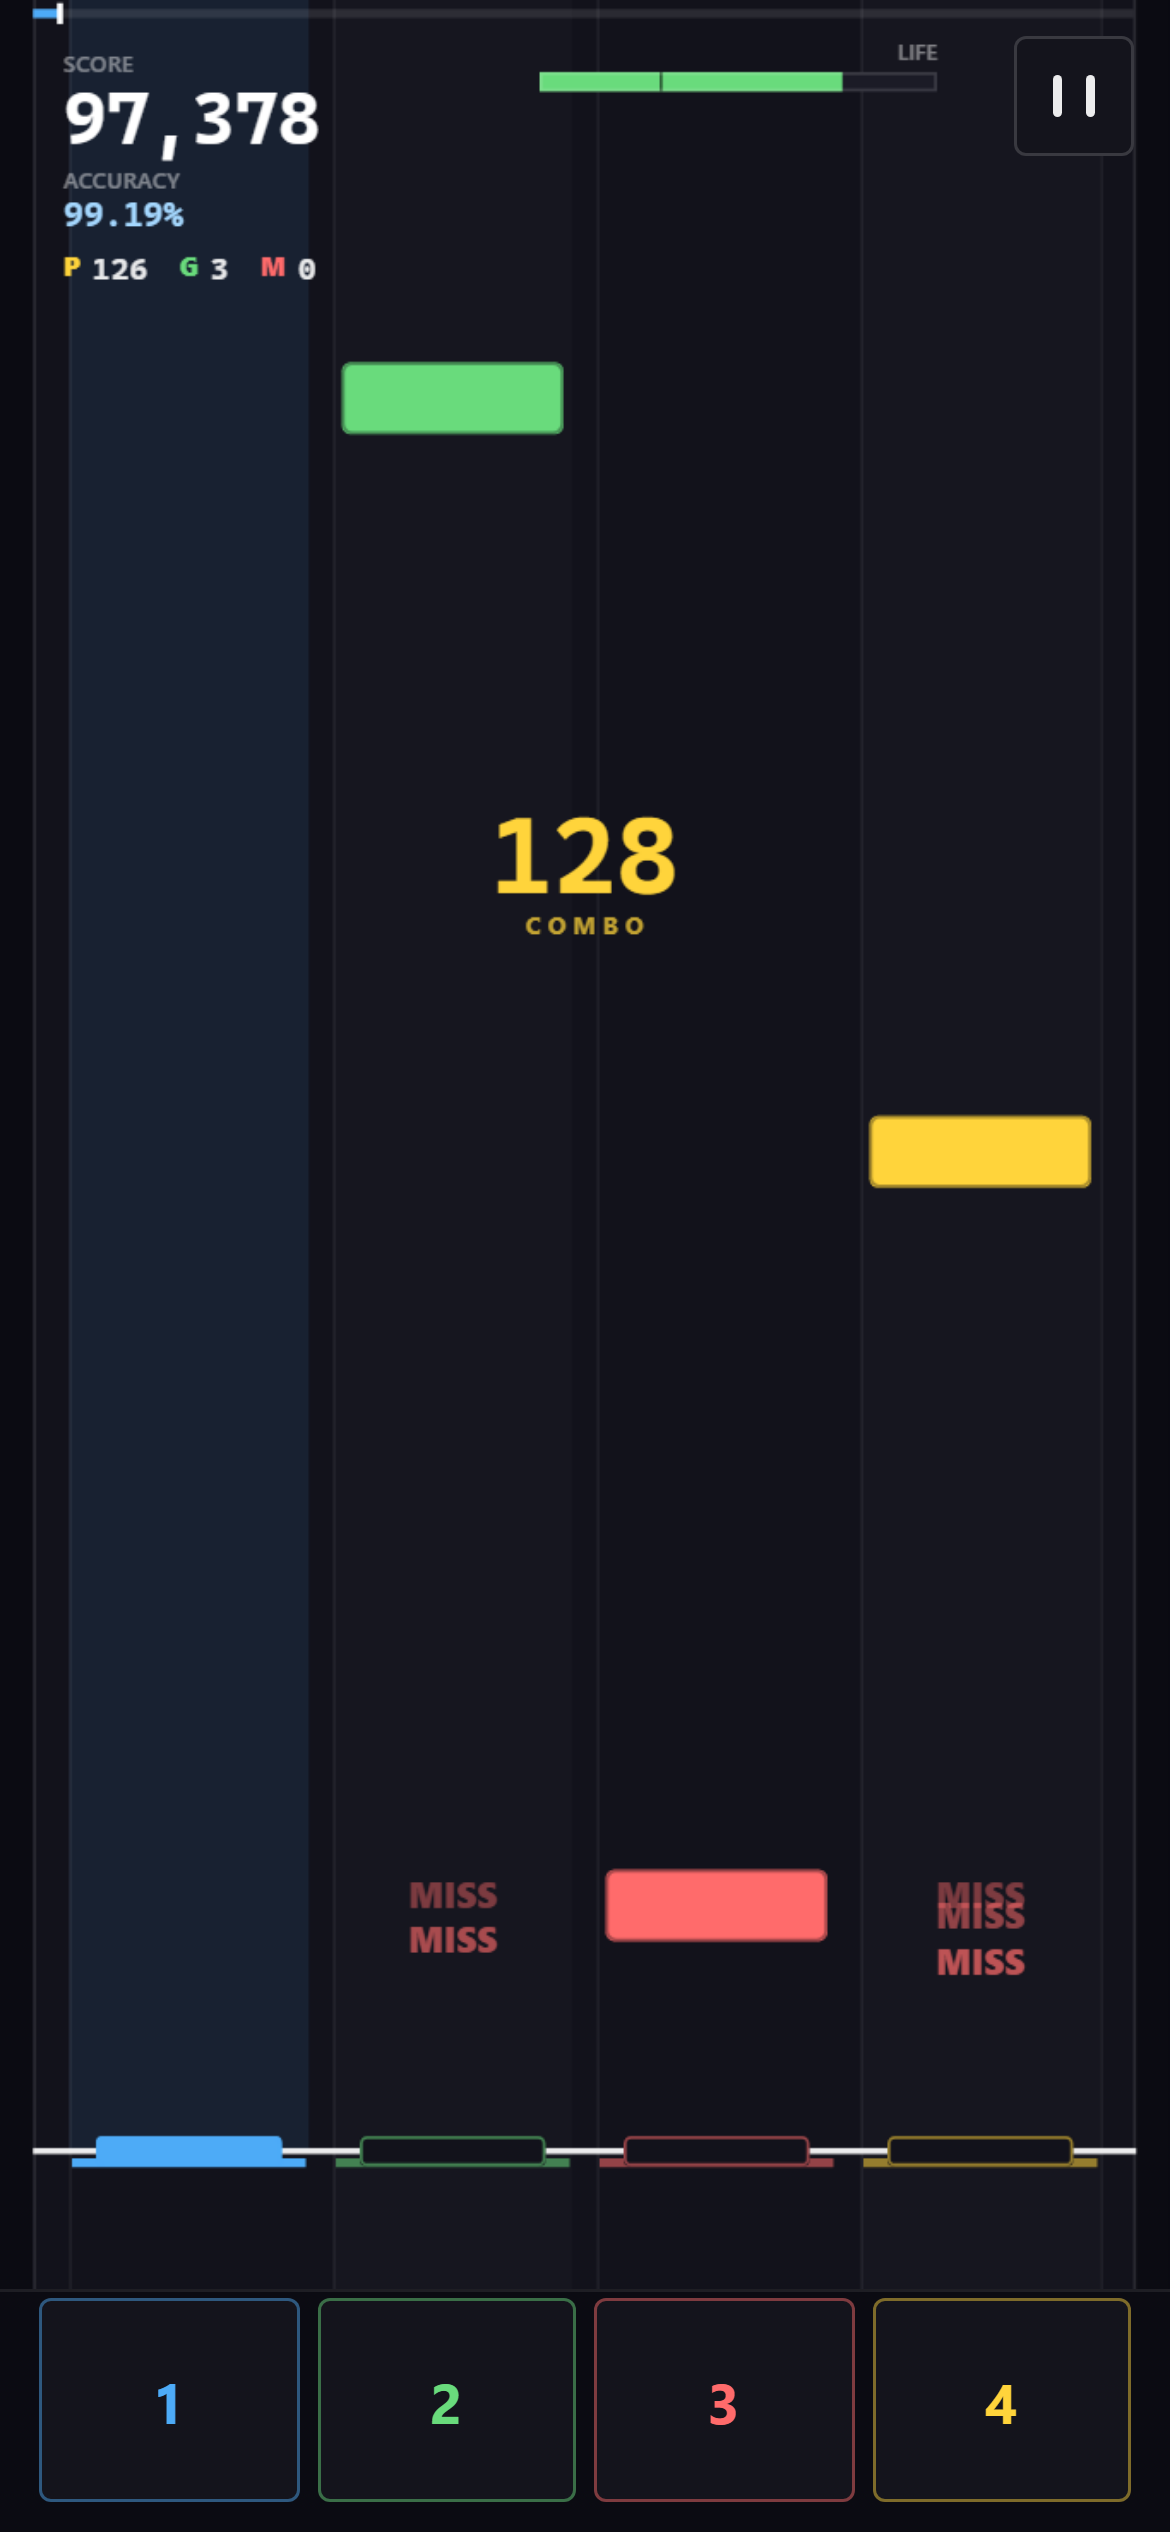
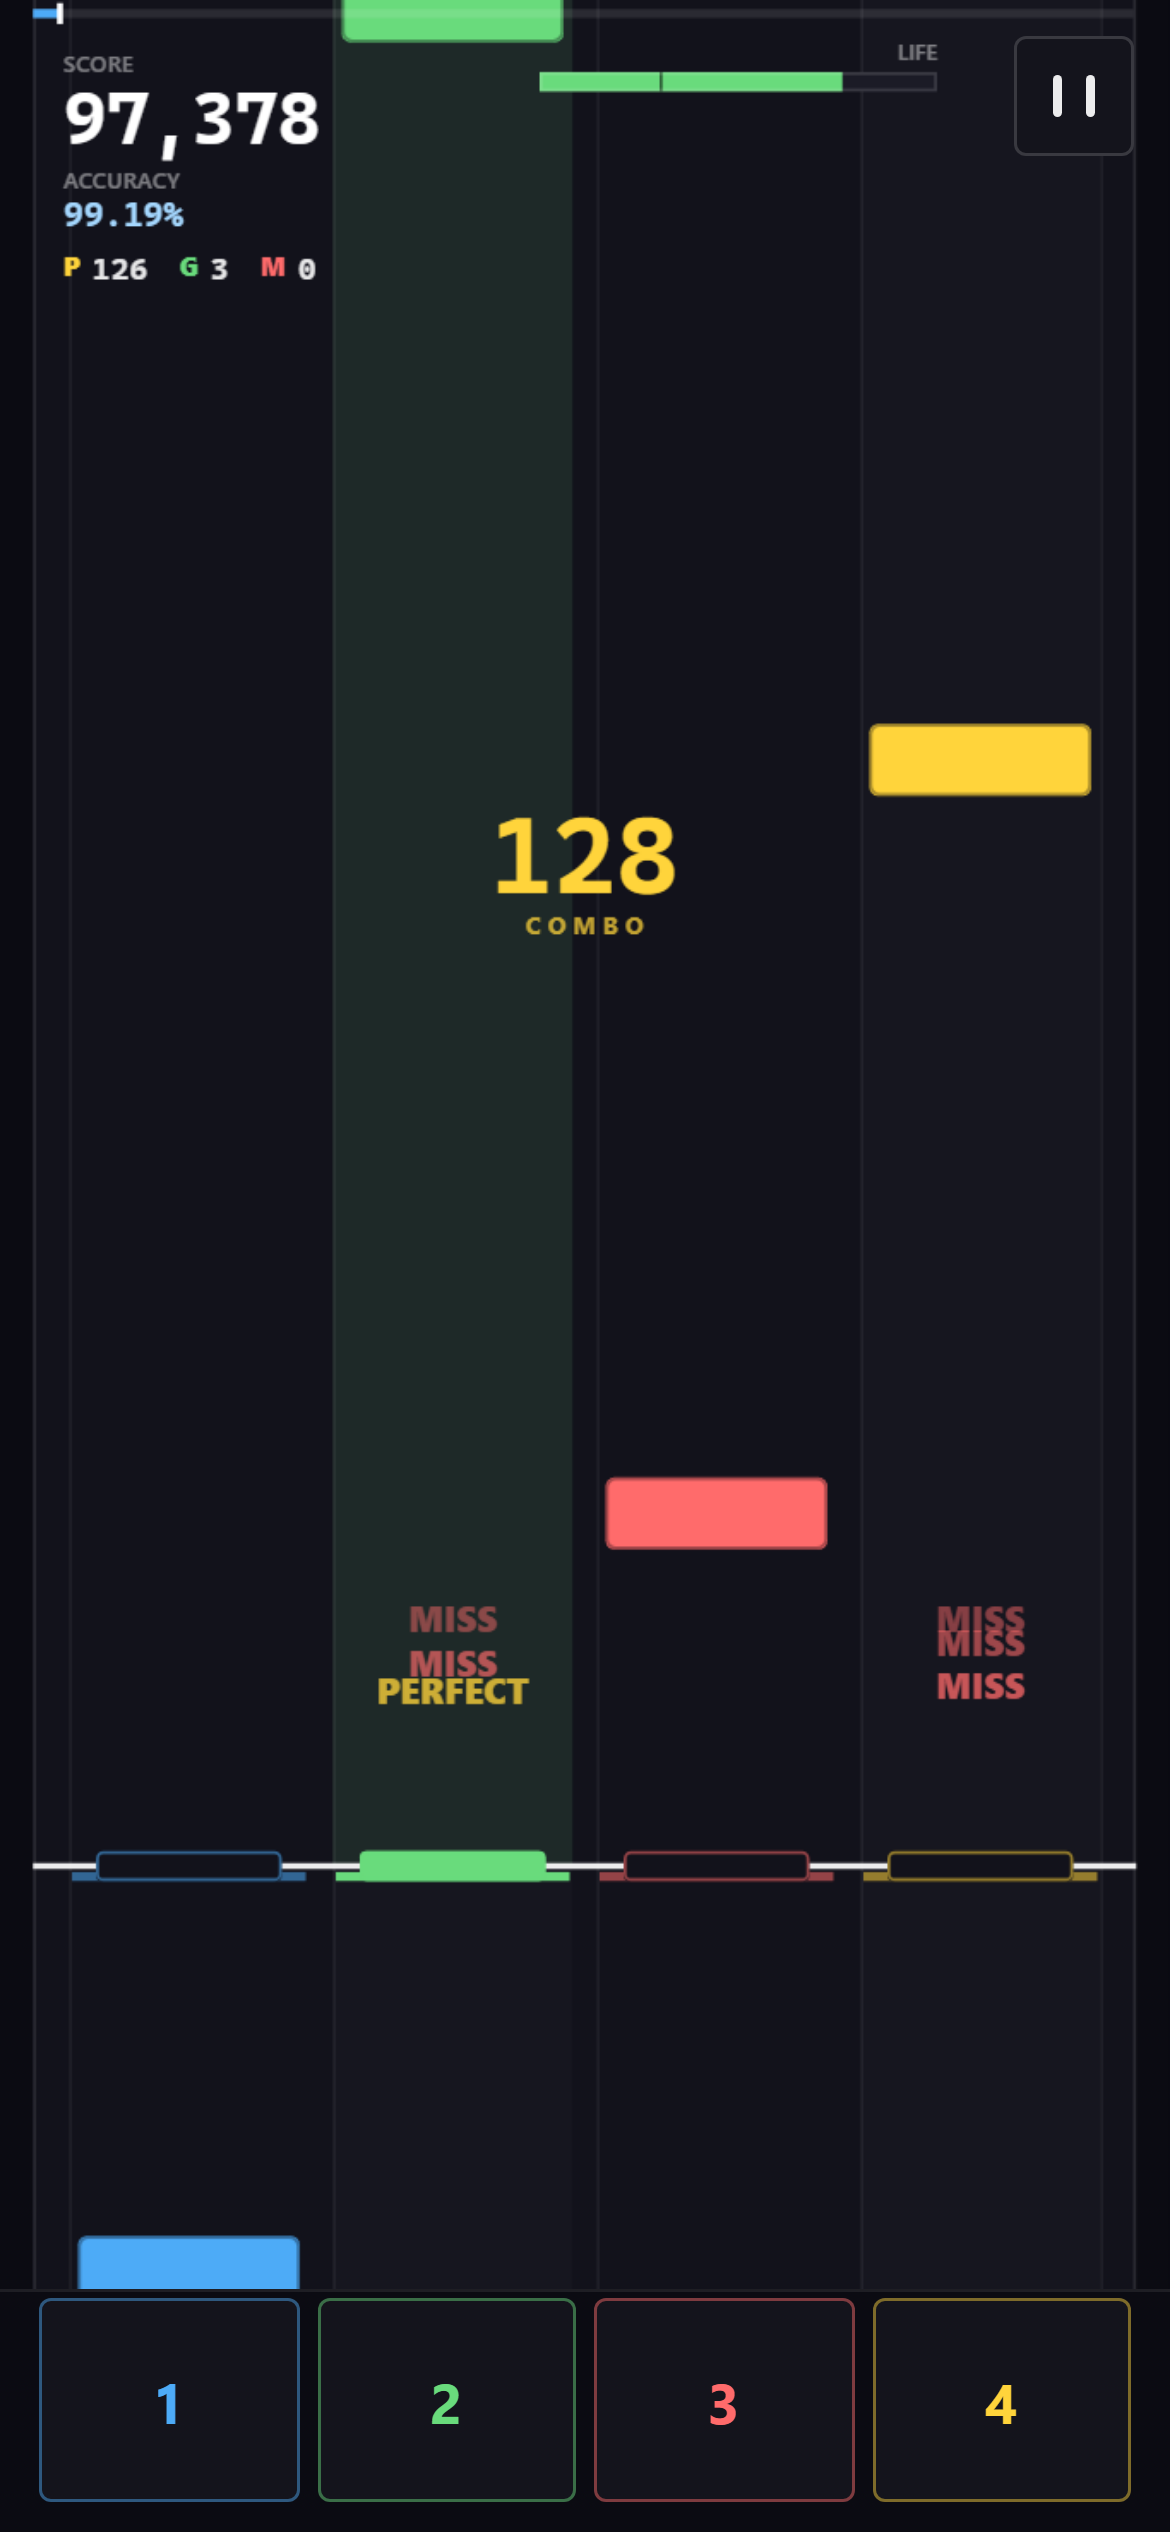
fix: 手机判定区过高导致几乎无法游玩
- 判定线位置：触屏设备按「可用高度 × 70%」排布（MOBILE_HIT_FRACTION），
  并保证高于底部触控栏 24px；桌面端维持 85% / 皮肤 HITPOSITION 不变
  · 390×844 竖屏：判定线 722 → 622（距触控栏 32px → 136px）
  · 320×568：446 → 429（间距 59px）；844×390 横屏：292（间距 32px）
- 触点拦截改用实测触控键区矩形，不再写死底部 110px；
  且只在按键区横向范围内拦截——横屏右侧按键区之外可一路点到底部
- 松开事件不再被拦截，手指从可点区滑进按键区后按键 / Hold 不会卡住
- 更新手机截图与 README

diff --git a/js/ui.js b/js/ui.js
@@ -2801,6 +2801,26 @@ class UIManager {
     }
 
     /**
+     * 触控键区矩形（CSS 像素）：没有布局（未进入游戏）时返回 null。
+     * 用实测矩形而不是写死像素，横竖屏 / 不同机型下判定区都不会被裁掉。
+     */
+    _getTouchDockRect() {
+        if (!IS_TOUCH_DEVICE) return null;
+        const btns = document.querySelector('.mobile-btns');
+        if (!btns) return null;
+        const rect = btns.getBoundingClientRect();
+        return rect.height > 0 ? rect : null;
+    }
+
+    /** 触控键区顶边（含 6px 缓冲）：判定线始终在这条线上方 */
+    _getTouchDockTop() {
+        const rect = this._getTouchDockRect();
+        if (rect) return rect.top - 6;
+        const fallback = renderer ? renderer.canvasHeight : window.innerHeight;
+        return fallback - ((renderer && renderer._controlsHeight) || 92) - 12;
+    }
+
+    /**
      * 处理 Canvas 上的触控，映射到轨道（全屏均分映射，边缘外扩容错）
      * 状态按手指独立管理（_canvasTouchTracks: stateKey → track），
      * 多指同轨时各自独立持有，任一手指离开仅在自己"独占"该轨道时才释放按键。
@@ -2812,8 +2832,17 @@ class UIManager {
     _handleCanvasTouch(touchId, clientX, clientY, isDown) {
         if (!renderer) return;
 
-        // 触点落在底部触控键区域（约底部 100px）→ 忽略，避免与 DOM 按钮重复触发
-        if (clientY > renderer.canvasHeight - 110) return;
+        // 触点落在底部触控键区域内 → 忽略按下/移动，避免与 DOM 按钮重复触发。
+        // 只在按键区实际覆盖的横向范围内忽略（横屏时按键区只占右下角，左侧仍可点到底）。
+        // 松开事件一律处理，防止手指滑进按键区后按键/Hold 卡住。
+        if (isDown) {
+            const dock = this._getTouchDockRect();
+            if (dock) {
+                if (clientY > dock.top - 6 && clientX >= dock.left - 8 && clientX <= dock.right + 8) return;
+            } else if (clientY > this._getTouchDockTop()) {
+                return;
+            }
+        }
 
         // 全屏均分映射：无论轨道实际渲染宽度如何，屏幕 X 平均分为 4 轨。
         // 优势：手指不需要瞄准细轨道，拇指自然分列左右即可覆盖全部轨道。

diff --git a/js/renderer.js b/js/renderer.js
@@ -23,6 +23,10 @@ const SKIN_DRAW = {
     showBar: false
 };
 
+// 触屏设备的判定线位置：占「可用高度（扣掉触控栏与安全区）」的比例。
+// 手机上判定线过高会挤压读谱空间，过低则判定区被拇指/触控栏挡住，0.70 是两者的折中。
+const MOBILE_HIT_FRACTION = 0.70;
+
 class Renderer {
     constructor(canvas, ctx) {
         this.canvas = canvas;
@@ -173,11 +177,25 @@ class Renderer {
         const reservedBottom = this._controlsHeight + this._safeBottom + 12;
         const availableHeight = Math.max(180, this.canvasHeight - reservedBottom);
         // 内置皮肤用 CONFIG.judgmentLineY；Malody 皮肤由脚本的 HITPOSITION 决定（越大越靠上）
-        const desiredY = this.skin
+        let desiredY = this.skin
             ? reservedBottom + (this.canvasHeight - reservedBottom) * this.skin.hitFraction
             : this.canvasHeight * CONFIG.judgmentLineY;
+
+        // 触屏设备：判定线必须落在拇指区上方，否则线附近的可点区域被底部触控栏吃掉。
+        // 以「可用高度」的比例给一个上限（手机上约 72%），桌面端行为不变。
+        if (IS_TOUCH_DEVICE) {
+            const mobileTargetY = reservedBottom + availableHeight * MOBILE_HIT_FRACTION;
+            desiredY = Math.min(desiredY, mobileTargetY);
+        }
+        this._touchPlayfieldBottom = 0;   // 触控栏顶边（由 UI 测量后写入）
+
         const maxY = Math.max(120, availableHeight - 18);
         this._judgmentY = Math.min(Math.max(availableHeight * 0.62, Math.min(desiredY, maxY)), this.canvasHeight - 40);
+        if (IS_TOUCH_DEVICE) {
+            // 再保证判定线至少高于触控栏 24px（触控栏高度按经验值预估，UI 会写入实测值）
+            const dockTop = this.canvasHeight - (this._controlsHeight + this._safeBottom);
+            this._judgmentY = Math.min(this._judgmentY, Math.max(120, dockTop - 24));
+        }
 
         // HUD 缩放（小屏使用较小字号，但不低于可读下限）
         this._hudScale = Math.max(0.78, Math.min(1, Math.min(this.canvasWidth, this.canvasHeight) / 480));

diff --git a/README.md b/README.md
@@ -98,6 +98,7 @@ npx serve .
 - **触控点显示**：按住时显示对应轨道颜色的呼吸圆环，松开时留下扩散涟漪，滑动换轨时圆环颜色实时切换；设置页 TOUCH FEEDBACK 可开关（仅触屏设备显示该项）
 - **游戏内按钮**：右上角暂停按钮（连点 5 次可切换性能监控面板）、长前奏曲目自动出现 SKIP INTRO 按钮、暂停面板显示曲目与实时成绩并支持 继续 / 重试 / 回主页
 - **横屏优化**：矮窗口下触控键收窄至右下角，性能面板移至左上，HUD 自动避让
+- **判定区**：手机上判定线按「可用高度 × 70%」排布（桌面仍为 85%；Malody 皮肤的 HITPOSITION 在手机上同样夹到这条上限），并保证判定线高于底部触控栏至少 24px；触控栏只在自身实际覆盖的横向范围内拦截触点，横屏时左侧仍可一路点到底部
 - **安全区适配**：刘海屏 / 手势条（`env(safe-area-inset-*)`）全布局避让，音符判定线上移不被手指遮挡
 - **性能优化**：触屏设备自动降低渲染分辨率（DPR 上限 1.5~1.75）、减少打击粒子数、开始画面限帧 ~30fps 省电
 - **后台保护**：切到后台自动暂停游戏；Web Audio 在部分浏览器不可用时给出提示
@@ -141,7 +142,7 @@ assets/skins/yuxen/
 
 `script-key-4K.mui` 顶部的 `@define HITPOSITION 72.5` 决定判定线位置：数值越大判定线越靠上（作者建议 37~150，可用小数）。
 
-本作的换算方式是 `判定线距顶部比例 = 1 − (HITPOSITION + 25) / 900`，再被底部触控键 + 安全区夹住——所以手机上判定线永远不会落进按键区。
+本作的换算方式是 `判定线距顶部比例 = 1 − (HITPOSITION + 25) / 900`，再被底部触控键 + 安全区夹住。触屏设备另有上限：判定线不超过可用高度的 70%（`js/renderer.js` 的 `MOBILE_HIT_FRACTION`），所以手机上判定线不会落进拇指区，横竖屏都留有可点空间。
 
 判定位置仍按这套数值排布音符、接收器与判定文字，只是**不绘制皮肤里的判定线贴图**（`Ybar4k`），画面更干净。
 
